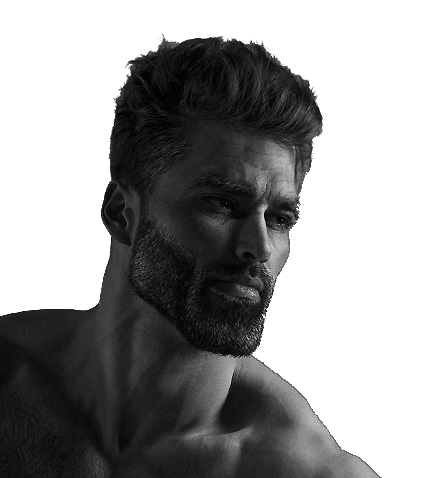
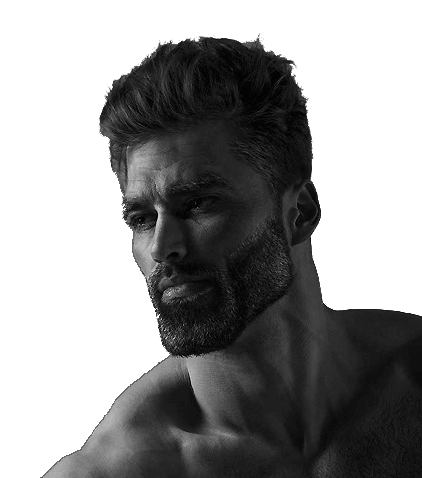
Add title and update style files

diff --git a/index.html b/index.html
@@ -8,7 +8,7 @@
         <meta name="viewport" content="width=device-width, initial-scale=1, shrink-to-fit=no">
 
         <!--Page icon-->
-        <link rel="shortcut icon" href="assets/img/GigachadRight.png" type="img/png">
+        <link rel="shortcut icon" href="assets/img/GigachadLeft.png" type="img/png">
 
         <!--Fontes-->
         <link rel="preconnect" href="https://fonts.googleapis.com">
@@ -28,25 +28,25 @@
             <div class="sliders">
                 <div class="wrapper-logo-slider">
                     <div class="slide">
-                        <img src="assets/img/GigachadRight.png" alt="Giga" title="Chad">
+                        <img src="assets/img/GigachadLeft.png" alt="Giga" title="Chad">
                     </div>
                     <div class="slide">
                         <img src="assets/img/GigachadRight.png" alt="Giga" title="Chad">
                     </div>
                     <div class="slide">
-                        <img src="assets/img/GigachadRight.png" alt="Giga" title="Chad">
+                        <img src="assets/img/GigachadLeft.png" alt="Giga" title="Chad">
                     </div>
                     <div class="slide">
                         <img src="assets/img/GigachadRight.png" alt="Giga" title="Chad">
                     </div>
                     <div class="slide">
-                        <img src="assets/img/GigachadRight.png" alt="Giga" title="Chad">
+                        <img src="assets/img/GigachadLeft.png" alt="Giga" title="Chad">
                     </div
                     ><div class="slide">
                         <img src="assets/img/GigachadRight.png" alt="Giga" title="Chad">
                     </div>
                     <div class="slide">
-                        <img src="assets/img/GigachadRight.png" alt="Giga" title="Chad">
+                        <img src="assets/img/GigachadLeft.png" alt="Giga" title="Chad">
                     </div>
                     <div class="slide">
                         <img src="assets/img/GigachadRight.png" alt="Giga" title="Chad">
@@ -54,25 +54,25 @@
 
                     <!--Duplicate slide's for make the loop animation-->
                     <div class="slide">
-                        <img src="assets/img/GigachadRight.png" alt="Giga" title="Chad">
+                        <img src="assets/img/GigachadLeft.png" alt="Giga" title="Chad">
                     </div>
                     <div class="slide">
                         <img src="assets/img/GigachadRight.png" alt="Giga" title="Chad">
                     </div>
                     <div class="slide">
-                        <img src="assets/img/GigachadRight.png" alt="Giga" title="Chad">
+                        <img src="assets/img/GigachadLeft.png" alt="Giga" title="Chad">
                     </div>
                     <div class="slide">
                         <img src="assets/img/GigachadRight.png" alt="Giga" title="Chad">
                     </div>
                     <div class="slide">
-                        <img src="assets/img/GigachadRight.png" alt="Giga" title="Chad">
+                        <img src="assets/img/GigachadLeft.png" alt="Giga" title="Chad">
                     </div
                     ><div class="slide">
                         <img src="assets/img/GigachadRight.png" alt="Giga" title="Chad">
                     </div>
                     <div class="slide">
-                        <img src="assets/img/GigachadRight.png" alt="Giga" title="Chad">
+                        <img src="assets/img/GigachadLeft.png" alt="Giga" title="Chad">
                     </div>
                     <div class="slide">
                         <img src="assets/img/GigachadRight.png" alt="Giga" title="Chad">
